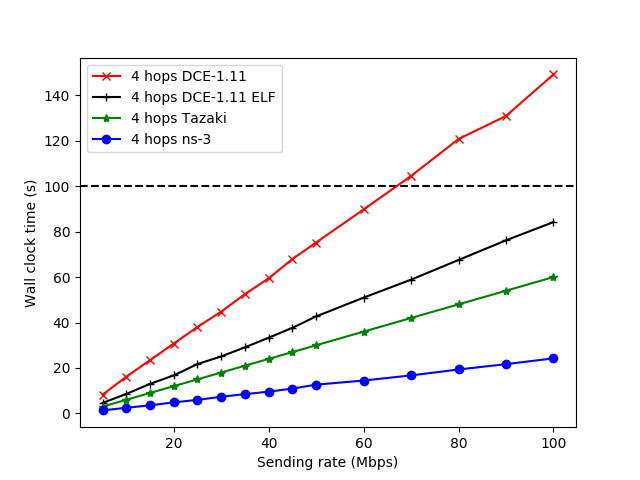
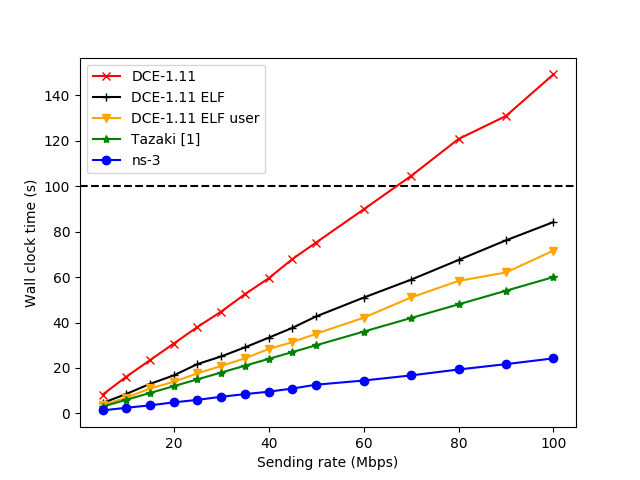
Update rate-vs-time figure and data

diff --git a/figs/plot-rate-vs-time.py b/figs/plot-rate-vs-time.py
@@ -28,7 +28,7 @@ for line in f2:
         clock2.append (float(columns[4]))
 f2.close()
 
-f3 = open("rate-vs-time.ns3.dat")
+f3 = open("rate-vs-time.dce11.ns3.dat")
 rate3 = []
 clock3 = []
 for line in f3:
@@ -48,16 +48,26 @@ for line in f4:
         clock4.append (float(columns[4]))
 f4.close()
 
+f5 = open("rate-vs-time.dce11.elf.user.dat")
+rate5 = []
+clock5 = []
+for line in f5:
+    if not line.startswith('#'):
+        columns = line.split()
+        rate5.append(float(columns[2]))
+        clock5.append (float(columns[4]))
+f5.close()
 
 plt.xlabel('Sending rate (Mbps)')
 plt.ylabel('Wall clock time (s)')
 #plt.xlim([20,20.5])
 #plt.title(title, fontdict = {'fontsize' : 12})
 plt.axhline(y=100, color='black', linestyle='--')
-plt.plot(rate4, clock4, marker='x', color='red', label='4 hops DCE-1.11')
-plt.plot(rate, clock, marker='+', color='black', label='4 hops DCE-1.11 ELF')
-plt.plot(rate2, clock2, marker='*', color='green', label='4 hops Tazaki')
-plt.plot(rate3, clock3, marker='o', color='blue', label='4 hops ns-3')
+plt.plot(rate4, clock4, marker='x', color='red', label='DCE-1.11')
+plt.plot(rate, clock, marker='+', color='black', label='DCE-1.11 ELF')
+plt.plot(rate5, clock5, marker='v', color='orange', label='DCE-1.11 ELF user')
+plt.plot(rate2, clock2, marker='*', color='green', label='Tazaki [1]')
+plt.plot(rate3, clock3, marker='o', color='blue', label='ns-3')
 plt.legend(loc='upper left')
 plt.ticklabel_format(useOffset=False)
 #plt.show()
